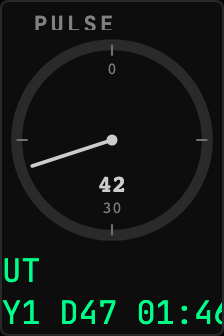
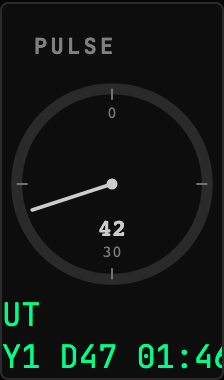
fix(example): repoint at the current packs, and take the deps-typed contribution bag

diff --git a/uplinks/example/client/src/HeartbeatBlob/index.ts b/uplinks/example/client/src/HeartbeatBlob/index.ts
@@ -3,7 +3,6 @@ import type {
   ContributionTopics,
 } from "@ksp-gonogo/sitrep-sdk";
 import { magnitudeOf } from "@ksp-gonogo/sitrep-sdk";
-import type { ExampleHeartbeat } from "../topics.js";
 import { EXAMPLE } from "../uplink.js";
 
 /**
@@ -18,6 +17,22 @@ import { EXAMPLE } from "../uplink.js";
  * without one the return type has to be spelled at every use.
  */
 type SystemViewEntity = ContributionEntry<"system-view.entities">;
+
+/**
+ * What this contribution reads, as a literal tuple.
+ *
+ * Declared once, up here, because it is read twice: `deps` below feeds it to the
+ * aggregation, and `computeHeartbeatBlob`'s parameter names it to get the topics
+ * bag typed. Spelling the list twice would let the registration and the function
+ * that receives it describe different deps, and nothing would say so.
+ */
+const DEPS = ["system.bodies", "example.heartbeat"] as const;
+
+/** The bag `compute` is handed, exported so a test can build one without respelling the deps. */
+export type HeartbeatBlobTopics = ContributionTopics<
+  "system-view.entities",
+  typeof DEPS
+>;
 
 /**
  * A CONTRIBUTION: data this Uplink hands to another widget's renderer, with no
@@ -55,25 +70,20 @@ EXAMPLE.registerContribution({
   contributes: "system-view.entities",
   requires: "example",
   /*
-   * TWO deps, and they are not the same kind of dep, which is the one rough edge
-   * in this file worth reading before you copy it.
+   * TWO deps, from two different places, and both arrive precisely typed.
    *
-   * `system.bodies` is one of the topics the SLOT declares, so `topics` types it
-   * precisely: the mapped half of `ContributionTopics` covers exactly the union
-   * the slot owner enumerated.
+   * `system.bodies` is one of the topics the SLOT declares, so it would be in
+   * the bag whether or not this contribution asked for it.
    *
    * `example.heartbeat` is THIS Uplink's own topic, which the slot's author had
-   * never heard of and could not have enumerated. It still arrives, through the
-   * `& Record<string, unknown>` tail on `ContributionTopics`, but typed
-   * `unknown`, so reading it needs the cast below. That cast is load-bearing and
-   * it is the only unchecked step in this file: nothing verifies that the shape
-   * asserted here is the shape the Topic carries.
-   *
-   * Worth knowing rather than working around. The alternative, not declaring the
-   * dep and reading the Topic through a hook, is not available: `compute` is not
-   * a component and cannot hold one.
+   * never heard of and could not have enumerated. Declaring it here is what
+   * types it: `ContributionTopics` resolves the deps tuple against
+   * `TopicPayloadMap`, so an Uplink's own channel comes back as its payload
+   * type with no assertion anywhere. The other side of that is what a slot
+   * declaration is not: a topic nobody declared is not readable at all, rather
+   * than readable as `unknown`.
    */
-  deps: ["system.bodies", "example.heartbeat"],
+  deps: DEPS,
   compute: computeHeartbeatBlob,
   /*
    * No `owner` here, unlike the widget and the augment: registering THROUGH the
@@ -92,13 +102,12 @@ EXAMPLE.registerContribution({
  * as much as the arithmetic.
  */
 export function computeHeartbeatBlob(
-  topics: ContributionTopics<"system-view.entities">,
+  topics: HeartbeatBlobTopics,
 ): readonly SystemViewEntity[] | null {
   const home = topics["system.bodies"]?.bodies?.[0]?.name;
   if (!home) return null;
 
-  const heartbeat = topics["example.heartbeat"] as ExampleHeartbeat | undefined;
-  const ticks = magnitudeOf(heartbeat?.ticks);
+  const ticks = magnitudeOf(topics["example.heartbeat"]?.ticks);
   if (ticks == null) return null;
 
   return [

diff --git a/uplinks/example/client/src/HeartbeatBlob/index.test.ts b/uplinks/example/client/src/HeartbeatBlob/index.test.ts
@@ -1,7 +1,6 @@
 import { value } from "@ksp-gonogo/sitrep-sdk";
-import type { ContributionTopics } from "@ksp-gonogo/sitrep-sdk";
 import { describe, expect, it } from "vitest";
-import { computeHeartbeatBlob } from "./index.js";
+import { computeHeartbeatBlob, type HeartbeatBlobTopics } from "./index.js";
 
 /**
  * A pure `compute` is the easiest thing in an Uplink to test well, and these three
@@ -16,13 +15,13 @@ import { computeHeartbeatBlob } from "./index.js";
 function topicsWith(
   bodies: string[],
   ticks?: number,
-): ContributionTopics<"system-view.entities"> {
+): HeartbeatBlobTopics {
   return {
     "system.bodies": { bodies: bodies.map((name, index) => ({ index, name })) },
     ...(ticks === undefined
       ? {}
       : { "example.heartbeat": { ut: value("ut", 1_000_000), ticks: value("count", ticks) } }),
-  } as ContributionTopics<"system-view.entities">;
+  } as HeartbeatBlobTopics;
 }
 
 describe("computeHeartbeatBlob", () => {

diff --git a/uplinks/example/client/src/PulseDial/index.tsx b/uplinks/example/client/src/PulseDial/index.tsx
@@ -1,5 +1,5 @@
 import { magnitudeOf, registerComponent, useTelemetry } from "@ksp-gonogo/sitrep-sdk";
-import { Dial, EmptyState, Panel, PanelTitle, Text, Unit } from "@ksp-gonogo/ui-kit";
+import { Dial, EmptyState, Panel, Text, Unit } from "@ksp-gonogo/ui-kit";
 import { EXAMPLE } from "../uplink.js";
 
 /**
@@ -41,7 +41,7 @@ function PulseDialWidget() {
   if (heartbeat.state !== "observed") {
     return (
       <Panel>
-        <PanelTitle>Pulse</PanelTitle>
+        <Panel.Title>Pulse</Panel.Title>
         <EmptyState>Waiting for the example Uplink</EmptyState>
       </Panel>
     );
@@ -51,7 +51,7 @@ function PulseDialWidget() {
 
   return (
     <Panel>
-      <PanelTitle>Pulse</PanelTitle>
+      <Panel.Title>Pulse</Panel.Title>
       <Dial
         value={ticks}
         min={0}

diff --git a/uplinks/example/client/src/Heartbeat/index.tsx b/uplinks/example/client/src/Heartbeat/index.tsx
@@ -5,7 +5,6 @@ import {
 import {
   EmptyState,
   Panel,
-  PanelTitle,
   Stack,
   Text,
   Unit,
@@ -43,7 +42,7 @@ function HeartbeatWidget() {
   if (heartbeat.state !== "observed") {
     return (
       <Panel>
-        <PanelTitle>Heartbeat</PanelTitle>
+        <Panel.Title>Heartbeat</Panel.Title>
         <EmptyState>Waiting for the example Uplink</EmptyState>
       </Panel>
     );
@@ -51,7 +50,7 @@ function HeartbeatWidget() {
 
   return (
     <Panel>
-      <PanelTitle>Heartbeat</PanelTitle>
+      <Panel.Title>Heartbeat</Panel.Title>
       <Stack>
         <Text>
           Ticks <Unit value={heartbeat.value.ticks} />

diff --git a/uplinks/example/client/src/CadenceSection/index.tsx b/uplinks/example/client/src/CadenceSection/index.tsx
@@ -54,7 +54,7 @@ function CadenceSection(_props: SlotProps<"space-center-status.sections">) {
   return (
     <Stack gap="xs">
       <Cluster gap="sm">
-        <Badge tone="info">example</Badge>
+        <Badge severity="info">example</Badge>
         <Text>
           publishing, last at UT <Unit value={heartbeat.value.ut} />
         </Text>

diff --git a/uplinks/example/client/src/uplink.ts b/uplinks/example/client/src/uplink.ts
@@ -15,4 +15,8 @@ export const EXAMPLE = defineUplinkClient({
   id: "example",
   version: UPLINK_VERSION,
   name: "Example",
+  description:
+    "The smallest Uplink that is still a real one: one KSP plugin, one " +
+    "channel, one widget, and no third-party mod to install. Copy this " +
+    "directory to start your own.",
 });

diff --git a/uplinks/example/client/README.md b/uplinks/example/client/README.md
@@ -1,46 +1,21 @@
-<!-- Generated by `gonogo-uplink docs`. Do not edit this file: edit
-     `uplink.md` for the prose, and the registrations for everything else. -->
+<!-- Generated by `gonogo-uplink docs`. Do not edit this file: it is written
+     from the registrations, the contract slice and the fixtures. -->
 
 # Example
 
-The smallest Uplink that is still a real one: one KSP plugin, one channel, one
-widget, and no third-party mod to install. Copy this directory to start your own.
-
-Its whole job is to publish a heartbeat, so every piece of the machinery has
-something to carry: a payload declared in C# with a unit on each field, the
-codegen that turns that declaration into TypeScript, a widget that reads the
-channel, a fixture that renders the widget, and a release that publishes a
-bundle the app can load. Nothing here is a placeholder, so if it builds and the
-CI legs are green, the layout works.
-
-## This file
-
-Everything else on the page beside this text is DERIVED: the widget list, the
-channels, the units, the compat numbers and the screenshots all come out of your
-registrations, your contract slice and your fixtures. `uplink.md` is the one file
-you write, and `gonogo-uplink docs` assembles the page from it.
-
-Put a lede here (what the Uplink is for, which mod it integrates, what someone
-has to install first) and, where a widget needs more than its own one-line
-description, a `## widget:<id>` section. The generator refuses a section naming an
-id nothing registered, so prose about a widget you deleted fails the build rather
-than quietly disappearing.
-
-Then run `npm run docs` in this directory and commit what it writes. CI checks
-that the committed page still matches the code, and the workflow on `main`
-regenerates it for you when something else changes it.
-
-## Install
-
-Nothing. This Uplink wraps no mod, so it loads and publishes on any install with
-GonogoCore. That is the point of it as a starting point: the first thing you
-change should be the payload, not the plumbing.
+The smallest Uplink that is still a real one: one KSP plugin, one channel, one widget, and no third-party mod to install. Copy this directory to start your own.
 
 | | |
 | --- | --- |
 | Uplink id | `example` |
 | Version | `0.0.1` |
-| Built against | contract 13.2, api 1.0.0, ui-kit 0.2.0 |
+| Built against | contract 15.0, api 1.0.0, ui-kit 0.1.0 |
+
+## Wire
+
+| Topic | Payload | Delivery | Delay |
+| --- | --- | --- | --- |
+| `example.heartbeat` | `ExampleHeartbeat` | lossy-latest | true-now |
 
 ## Widgets
 
@@ -48,126 +23,44 @@ change should be the payload, not the plumbing.
 
 The example Uplink's one channel: how many times it has published, and the universal time of the last sample.
 
-- Widget id: `example-heartbeat`
-- Needs: `example.heartbeat`
-- Default size: 3 x 3 grid units
-
-Publishes a tick count and the universal time of the last sample, which is enough
-to see whether the Uplink is alive and whether the wire is moving.
-
-The `ut` field is declared as a universal time rather than a duration, and that
-distinction is worth copying rather than glossing over. An instant and an interval
-are different units, the client renders them differently, and a Countdown handed a
-UT refuses it rather than showing a wrong number.
+| | |
+| --- | --- |
+| Widget id | `example-heartbeat` |
+| Reads | `example.heartbeat` |
+| Default size | 3 × 3 |
+| Scenes | 1 |
 
 ![The example Uplink publishing: 42 ticks since load, at UT 1,000,000](docs/assets/beating--default.png)
 
-*The example Uplink publishing: 42 ticks since load, at UT 1,000,000*
-
-![The example Uplink publishing: 42 ticks since load, at UT 1,000,000](docs/assets/beating--min.png)
-
-*The example Uplink publishing: 42 ticks since load, at UT 1,000,000*
+![The same widget at its minimum size](docs/assets/beating--min.png)
 
 ### Pulse
 
 The example Uplink's publish cadence on a dial: the needle sweeps once per sixty publishes and the centre carries the true total.
 
-- Widget id: `example-pulse-dial`
-- Needs: `example.heartbeat`
-- Default size: 4 x 4 grid units
-
-The same channel as Heartbeat, drawn as an instrument instead of a readout. Two
-widgets on one Topic is the ordinary case, not a special one: a Topic is not owned
-by a widget, and nothing had to be duplicated to let both read it.
-
-The decision worth copying is the one about the dial's range. `ticks` counts up
-from load and never comes back, so there is no honest maximum to give a dial:
-whatever number you pick, the needle pins there and stays, and a pinned needle
-reads as "at the limit" when the truth is "past a number somebody guessed". So the
-needle shows position in a sixty-publish cycle and the centre carries the real
-total. An instrument is a claim about a quantity, and the widget's job is to pick a
-presentation whose claim is true.
+| | |
+| --- | --- |
+| Widget id | `example-pulse-dial` |
+| Reads | `example.heartbeat` |
+| Default size | 4 × 4 |
+| Scenes | 1 |
 
 ![42 publishes since load: the needle two-thirds through its sweep, the true total in the centre](docs/assets/mid-sweep--default.png)
 
-*42 publishes since load: the needle two-thirds through its sweep, the true total in the centre*
+![The same widget at its minimum size](docs/assets/mid-sweep--min.png)
 
-![42 publishes since load: the needle two-thirds through its sweep, the true total in the centre](docs/assets/mid-sweep--min.png)
+## Augments
 
-*42 publishes since load: the needle two-thirds through its sweep, the true total in the centre*
-
-## Sections added to other widgets
-
-### `example-cadence-section` into `space-center-status.sections`
-
-- Reads: `example.heartbeat`
-- Only while present: `example`
-
-An augment renders a COMPONENT of yours inside a widget somebody else owns, which
-is what you want whenever the thing you are showing belongs beside data another
-widget already draws.
-
-Two details do most of the work. `requires` gates the mount on
-`example.available`, so an install without this Uplink's mod half renders the host
-widget exactly as it was: no empty section, no "not installed" row, nothing. And
-the component returns `null` rather than an empty state when it has no sample: a
-widget owns its tile and can afford to explain itself, while an augment is a guest
-in a layout somebody else designed, and a permanent "waiting" row inside another
-panel is a line the operator learns to read past.
-
-Note what the picture above says about itself. The real host widget ships with the
-app, and an Uplink may not import it, so the harness mounts the section in a
-stand-in panel and captions it as one. The section's own layout is faithful; how
-it sits under the host's own rows is not something an Uplink author can
-photograph.
-
-> Rendered in a STAND-IN host panel: the real host widget ships with the app and an Uplink may not import it, so the section's own layout is faithful and how it sits under the host's rows is not shown.
+| Augment | Into | Reads | Presence | Scenes | Notes |
+| --- | --- | --- | --- | --- | --- |
+| `example-cadence-section` | `space-center-status.sections` | `example.heartbeat` | only while `example` | 1 |  |
 
 ![The example Uplink section as it renders in a host panel: a badge, the last publish, and the count](docs/assets/publishing--default.png)
 
-*The example Uplink section as it renders in a host panel: a badge, the last publish, and the count*
+## Contributions
 
-## Data contributed to other widgets
+| Contribution | Into | Computed from | Presence |
+| --- | --- | --- | --- |
+| `example:heartbeat-blob` | `system-view.entities` | `system.bodies`, `example.heartbeat` | only while `example` |
 
-### `example:heartbeat-blob` into `system-view.entities`
-
-- Computed from: `system.bodies`, `example.heartbeat`
-- Only while present: `example`
-
-A contribution hands DATA to another widget's renderer, with no component of your
-own. The host draws it in the host's own visual language, so several contributors
-land in one coherent picture instead of each drawing its own idea of a marker.
-Reach for one whenever the host already draws a KIND of thing and you have another
-of them; reach for an augment instead when you want to own how it looks.
-
-`compute` is pure, and that is a requirement rather than a convention: it runs
-during the host's render and re-runs when its inputs change, so a side effect here
-fires at a cadence nobody chose. Being pure also makes it the cheapest thing in the
-package to test, which is why it is exported and tested directly rather than
-through a render.
-
-**Why there is no picture.** A contribution is drawn by the widget that owns the
-slot, and that widget ships with the app rather than in any published package. So
-an Uplink author can register a contribution, typecheck it against the slot's real
-entry type and unit-test its arithmetic, but cannot photograph the result: the
-harness mounts a stand-in host, and a stand-in cannot draw entities it has no
-renderer for. Listing it here without a preview is the honest form. A picture taken
-from a stand-in that drew its own version of the mark would be a picture of
-something the app does not do.
-
-One rough edge to expect. The `topics` bag handed to `compute` types the slot's own
-declared topics precisely, and everything else, your own Topics included, arrives
-through an `unknown` tail and needs a cast. The cast is the only unchecked step in
-that file, so keep it next to the type it asserts.
-
-## What other mods can extend in this Uplink
-
-Every widget above carries the framework's universal segments (`badges`, `filters`, `meters`), so another mod can add a badge, a filter or a meter to any of them without this Uplink declaring anything. They are not listed per widget: they are the floor every widget stands on, not this Uplink's own extension surface.
-
-## What this page cannot tell you
-
-- capabilities the mod half declares, which are registered imperatively
-  rather than as a field, so nothing can enumerate them
-- what a widget DOES, as opposed to what it reads. That is the one thing
-  only its author can write, and `uplink.md` is where it goes
 
